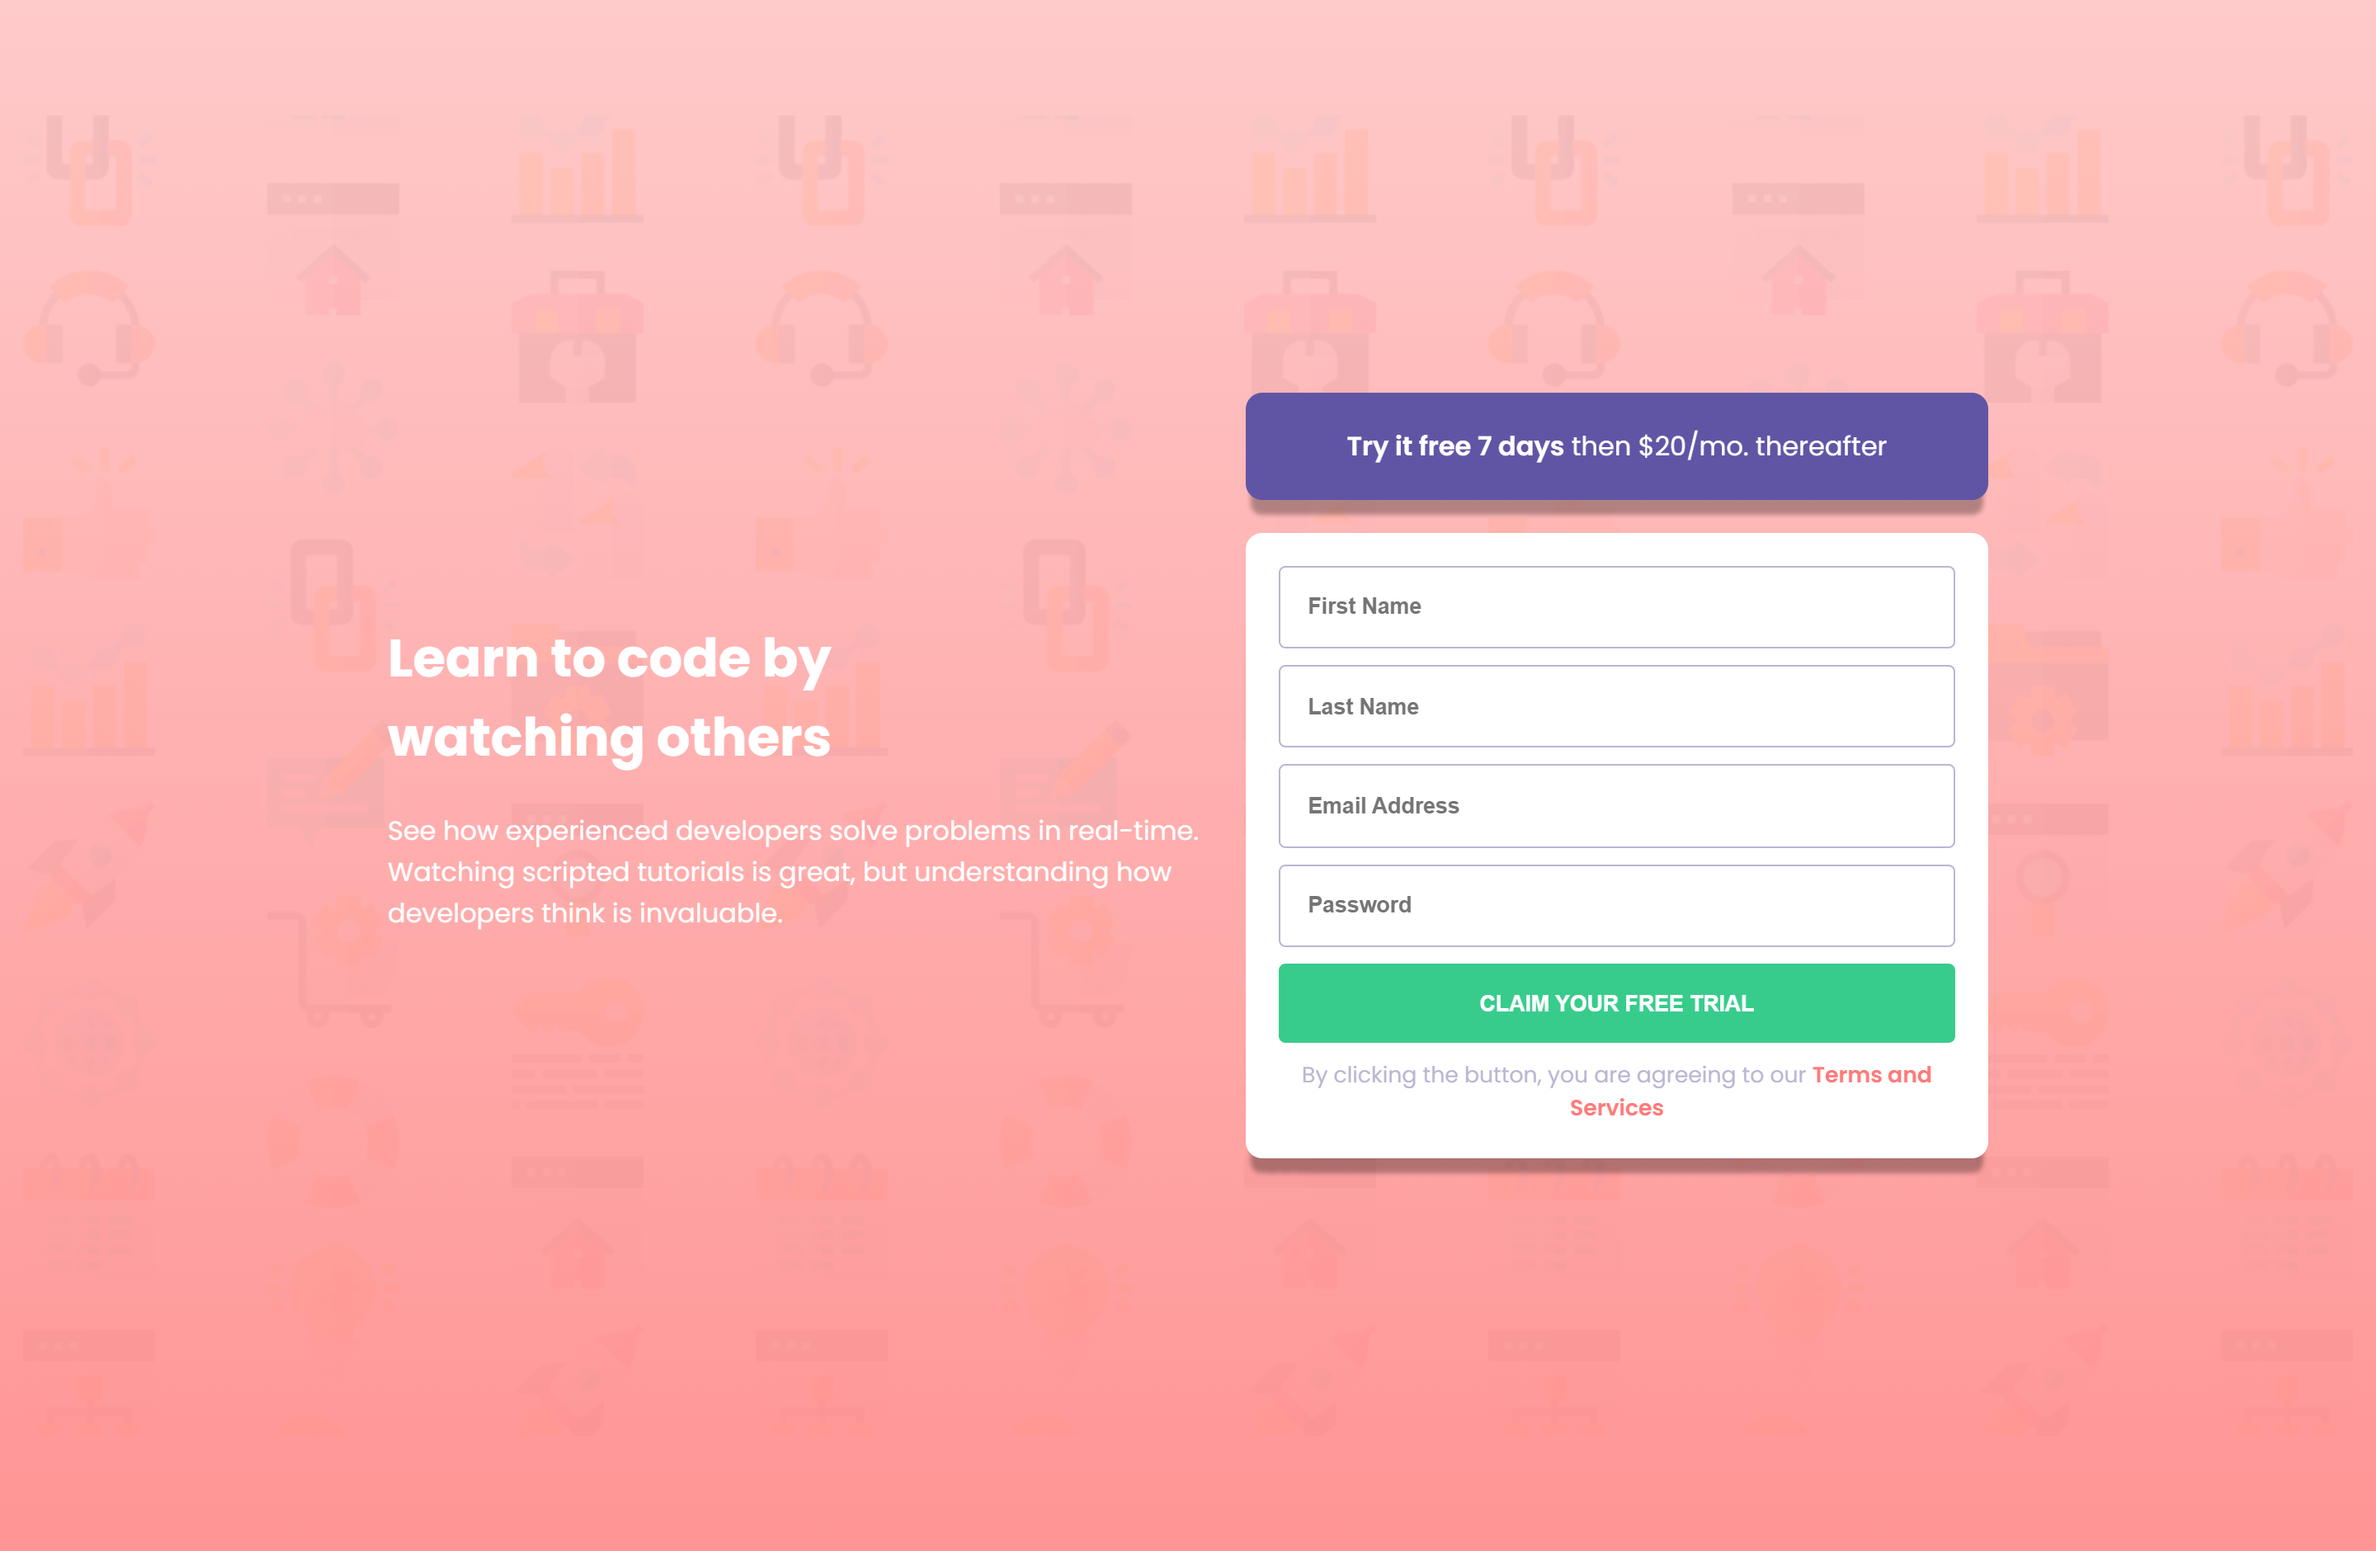
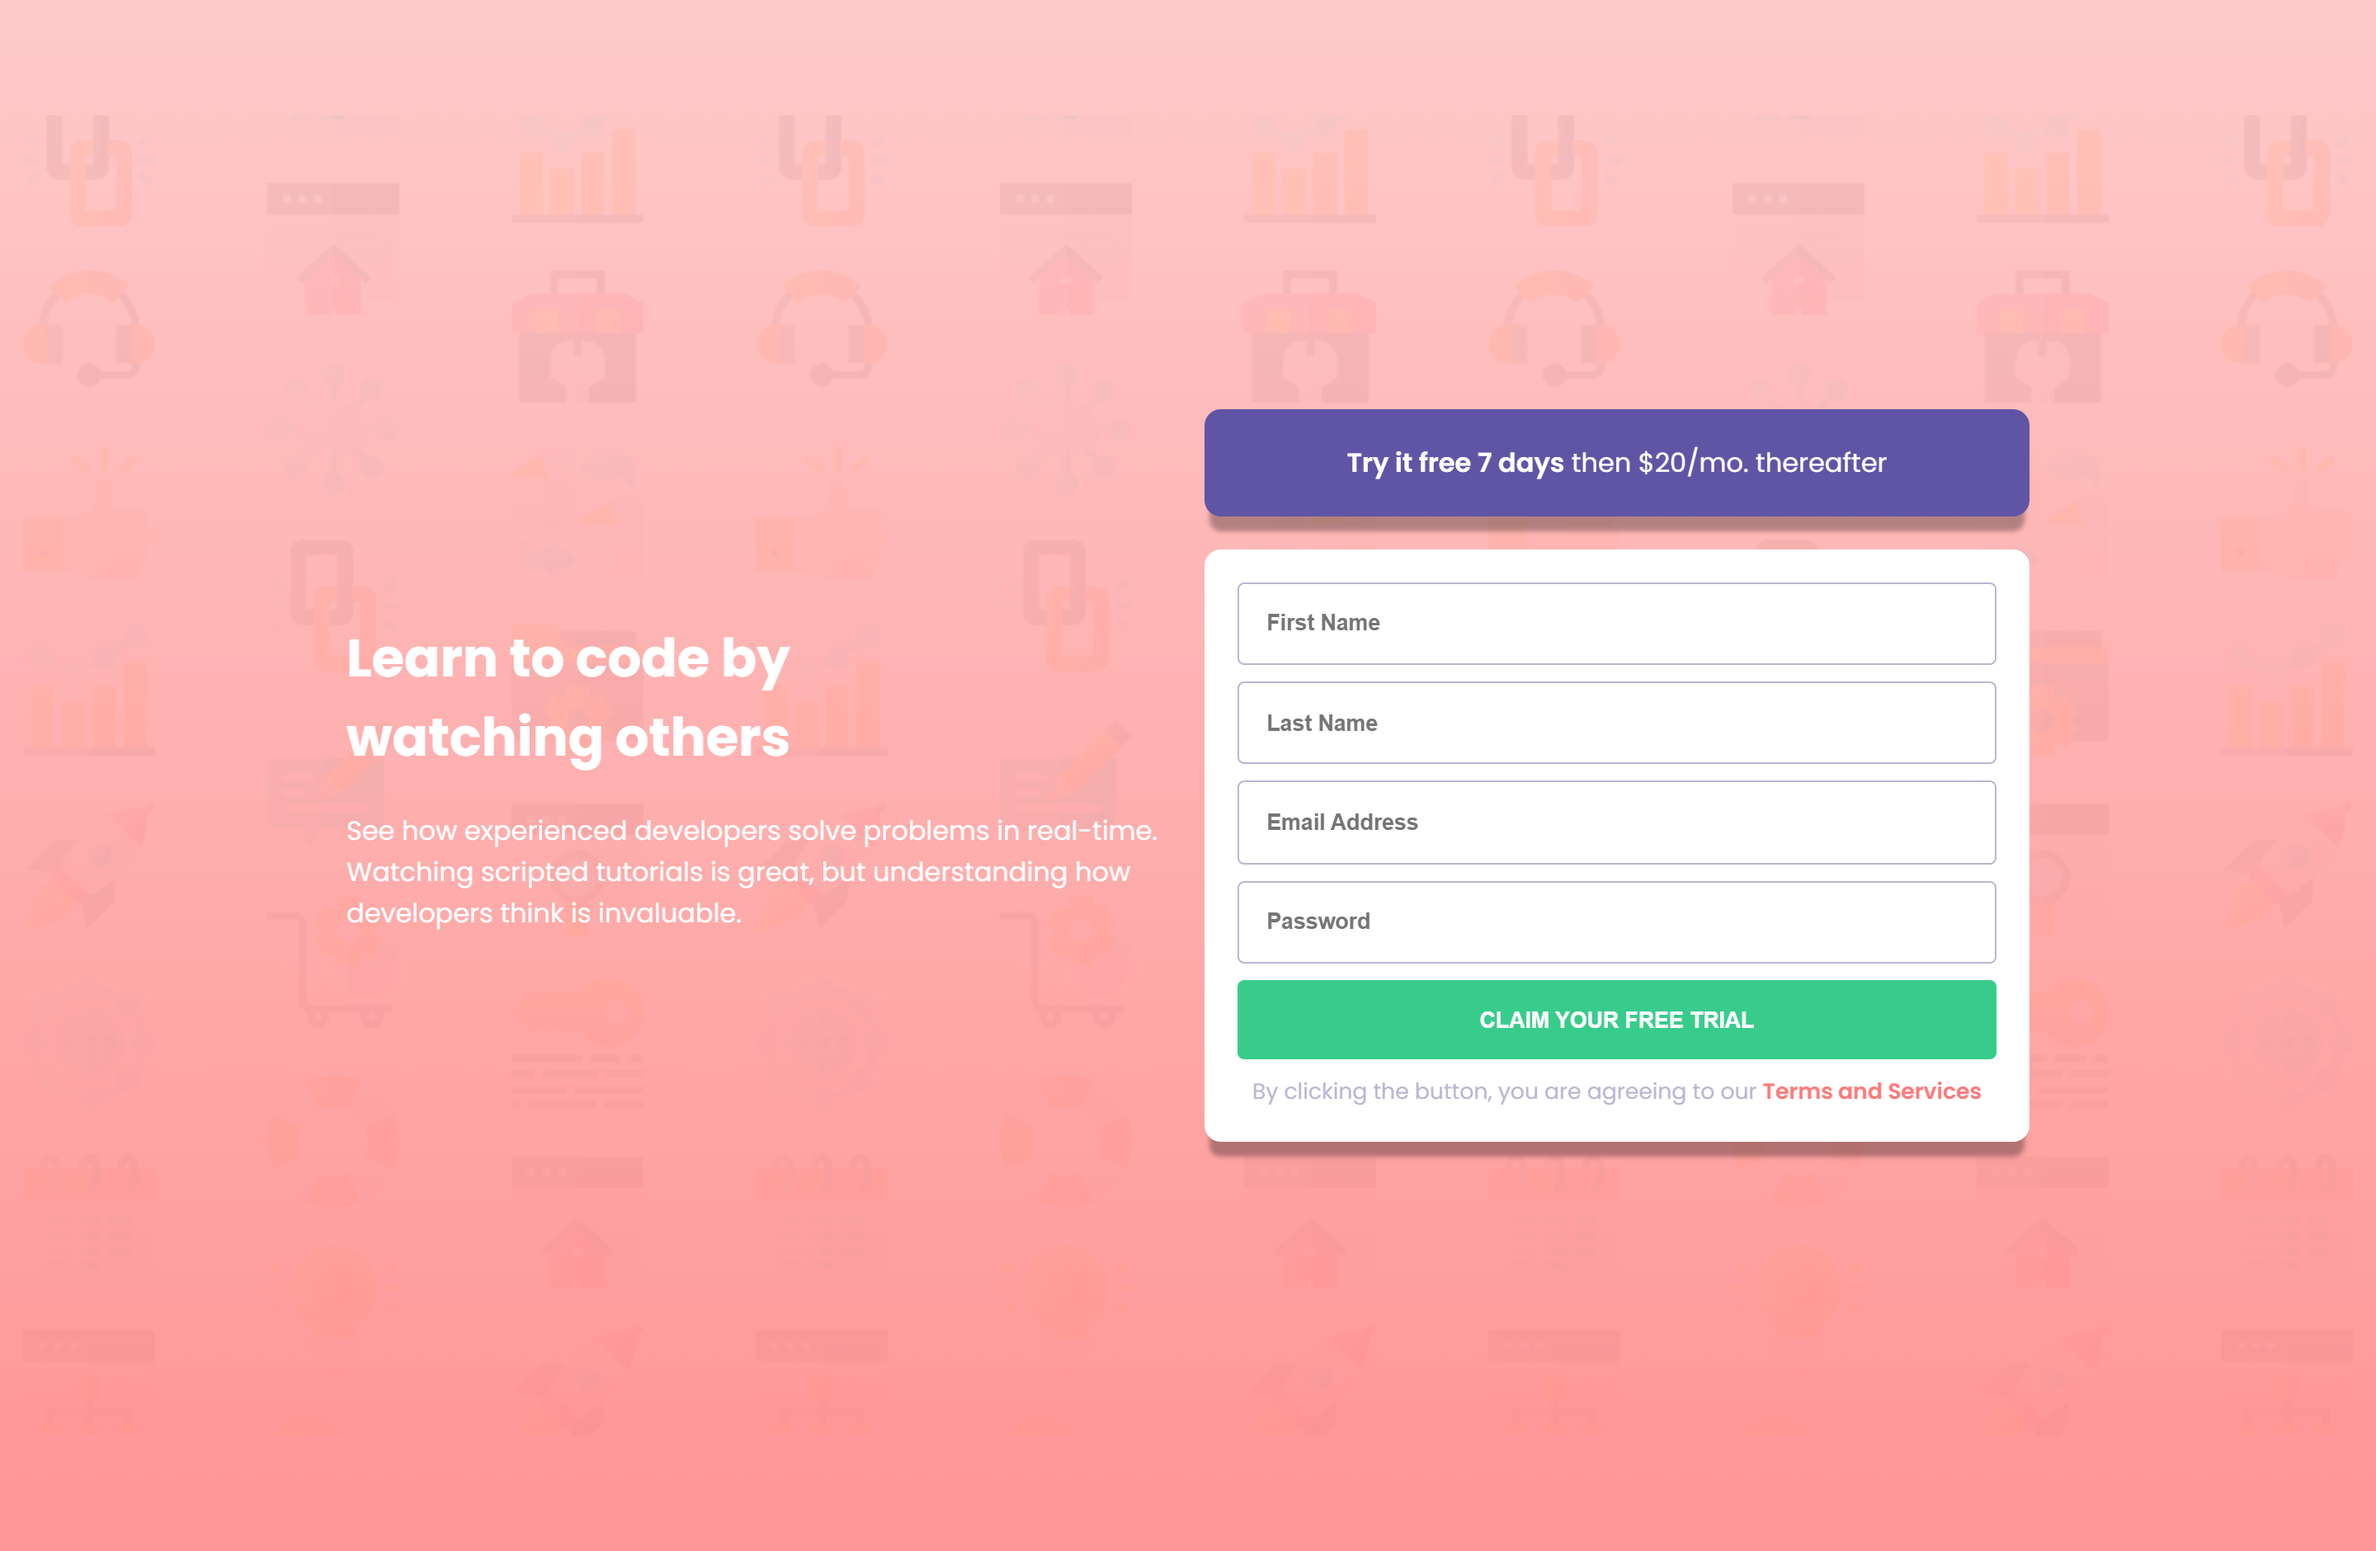
Added JS/Jquery

Changed region(s): [[0.1562, 0.2468, 0.875, 0.7713], [0.125, 0.4011, 0.3438, 0.4936]]

diff --git a/css/style.css b/css/style.css
@@ -1,1 +1,1 @@
-:root{--red: hsl(0, 100%, 74%);--red-faded1: hsla(0, 100%, 74%,.4);--red-faded2: hsla(0, 100%, 74%,.8);--green: hsl(154, 59%, 51%);--blue: hsl(248, 32%, 49%);--white: hsl(0, 0%, 100%);--dark-blue: hsl(249, 10%, 26%);--grayish-blue: hsl(246, 25%, 77%);--attribution-blue: hsl(228, 45%, 44%)}html{font-size:100%;overflow-x:hidden}*,*::before,*::after{box-sizing:border-box;padding:0;margin:0}.shadow,.container #subscription form,.container #subscription #trial-info{box-shadow:0px 12px 3px -3px rgba(0,0,0,.3)}body{font-family:"Poppins",sans-serif;font-size:1rem;font-weight:400;background:linear-gradient(var(--red-faded1), var(--red-faded2)),url("../images/bg-intro-mobile.png") no-repeat center fixed;background-size:cover;height:100%}main{width:100%;height:100%;display:grid;place-items:center}.container{display:flex;flex-wrap:wrap;gap:1.25em;justify-content:center;align-items:center;text-align:center;padding:1.25em}.container #info{display:grid;color:var(--white);padding:2.5em 0.625em}.container #info h1{font-weight:700;margin-bottom:0.625em}.container #subscription{display:grid;gap:1.25em;flex:1 0 28.125em;flex:0 1 28.125em}.container #subscription #trial-info{background:var(--blue);padding:1.25em 3.125em;border-radius:0.625em;color:var(--white)}.container #subscription #trial-info span{font-weight:600}.container #subscription form{display:grid;gap:0.625em;background:var(--white);border-radius:0.625em;padding:1.25em}.container #subscription form .inputs input{width:100%;padding:1.25em;border-radius:0.3125em;border:1px solid var(--grayish-blue);position:relative}.container #subscription form .inputs input::-moz-placeholder{font-weight:700}.container #subscription form .inputs input::placeholder{font-weight:700}.container #subscription form .inputs small{text-align:end;font-style:italic;color:var(--red);padding:0.3125em;font-size:0.625rem;display:none}.container #subscription form .inputs.error label{position:relative}.container #subscription form .inputs.error label::after{content:"";position:absolute;top:0;bottom:0;right:10px;margin:auto 0;width:1.5625em;height:1.5625em;background:url("../images/icon-error.svg") center/contain no-repeat}.container #subscription form .inputs.error input{border:1px solid var(--red);color:var(--red)}.container #subscription form .inputs.error input::-moz-placeholder{color:var(--red)}.container #subscription form .inputs.error input::placeholder{color:var(--red)}.container #subscription form .inputs.error small{display:block}.container #subscription form #trial-btn{padding:1.25em;background:var(--green);color:var(--white);border:none;border-radius:0.3125em;text-transform:uppercase;font-weight:600}.container #subscription form #trial-btn:hover{opacity:.7;cursor:pointer}small{display:block}small#terms{color:var(--grayish-blue)}small#terms span{color:var(--red);font-weight:600}.attribution{font-size:11px;text-align:center;display:none}.attribution a{color:var(--attribution-blue)}@media(min-width: 62em){body{background:linear-gradient(var(--red-faded1), var(--red-faded2)),url("../images/bg-intro-desktop.png") no-repeat center fixed;height:100vh}.container #info{flex:1 1 31.25em;flex:0 1 31.25em;text-align:start;padding:2.5em 0em}.container #info h1{padding-right:2.5em}.container #subscription{flex:1 0 28.125em;flex:0 1 28.125em}}/*# sourceMappingURL=style.css.map */
+:root{--red: hsl(0, 100%, 74%);--red-faded1: hsla(0, 100%, 74%,.4);--red-faded2: hsla(0, 100%, 74%,.9);--green: hsl(154, 59%, 51%);--blue: hsl(248, 32%, 49%);--white: hsl(0, 0%, 100%);--dark-blue: hsl(249, 10%, 26%);--grayish-blue: hsl(246, 25%, 77%);--attribution-blue: hsl(228, 45%, 44%)}html{font-size:100%;overflow-x:hidden}*,*::before,*::after{box-sizing:border-box;padding:0;margin:0}.shadow,.container #subscription form,.container #subscription #trial-info{box-shadow:0px 12px 3px -3px rgba(0,0,0,.3)}body{font-family:"Poppins",sans-serif;font-size:1rem;font-weight:400;background:linear-gradient(var(--red-faded1), var(--red-faded2)),url("../images/bg-intro-mobile.png") no-repeat center fixed;background-size:cover;height:100%}main{width:100%;height:100%;display:grid;place-items:center}.container{display:flex;flex-wrap:wrap;gap:1.25em;justify-content:center;align-items:center;text-align:center;padding:1.25em}.container #info{display:grid;color:var(--white);padding:2.5em 0.625em}.container #info h1{font-weight:700;margin-bottom:0.625em}.container #subscription{display:grid;gap:1.25em;flex:1 0 28.125em;flex:0 1 28.125em}.container #subscription #trial-info{background:var(--blue);padding:1.25em 3.125em;border-radius:0.625em;color:var(--white)}.container #subscription #trial-info span{font-weight:600}.container #subscription form{display:grid;gap:0.625em;background:var(--white);border-radius:0.625em;padding:1.25em}.container #subscription form .inputs input{width:100%;padding:1.25em;border-radius:0.3125em;border:1px solid var(--grayish-blue);position:relative}.container #subscription form .inputs input::-moz-placeholder{font-weight:700}.container #subscription form .inputs input::placeholder{font-weight:700}.container #subscription form .inputs small{text-align:end;font-style:italic;color:var(--red);padding:0.3125em;font-size:0.625rem;display:none}.container #subscription form .inputs.error label{position:relative}.container #subscription form .inputs.error label::after{content:"";position:absolute;top:0;bottom:0;right:10px;margin:auto 0;width:1.5625em;height:1.5625em;background:url("../images/icon-error.svg") center/contain no-repeat}.container #subscription form .inputs.error input{border:1px solid var(--red);color:var(--red)}.container #subscription form .inputs.error input::-moz-placeholder{color:var(--red)}.container #subscription form .inputs.error input::placeholder{color:var(--red)}.container #subscription form .inputs.error small{display:block}.container #subscription form #trial-btn{padding:1.25em;background:var(--green);color:var(--white);border:none;border-radius:0.3125em;text-transform:uppercase;font-weight:600}.container #subscription form #trial-btn:hover{opacity:.7;cursor:pointer}small{display:block}small#terms{color:var(--grayish-blue)}small#terms span{color:var(--red);font-weight:600}.attribution{font-size:11px;text-align:center;display:none}.attribution a{color:var(--attribution-blue)}@media(min-width: 62em){body{background:linear-gradient(var(--red-faded1), var(--red-faded2)),url("../images/bg-intro-desktop.png") no-repeat center fixed;height:100vh}.container #info{flex:1 1 31.25em;flex:0 1 31.25em;text-align:start;padding:2.5em 0em}.container #info h1{padding-right:2.5em}.container #subscription{flex:1 0 31.25em;flex:0 1 31.25em}}/*# sourceMappingURL=style.css.map */

diff --git a/js/javascript.js b/js/javascript.js
@@ -1,0 +1,20 @@
+function isEmail(email){ //Check for valid email addresses
+	let regex = /^([a-zA-Z0-9_.+-])+\@(([a-zA-Z0-9-])+\.)+([a-zA-Z0-9]{2,4})+$/;
+	return regex.test(email);
+}
+
+$("#trial-btn").click(function(){
+    $(".inputs input").each(function(){ // loop through all input fields
+        if($(this).val()==""){ // check if each input field is empty
+            $(this).parent().parent().addClass("error"); // if empty, add the ERROR class which will add the variuos error states/alerts
+            if($(this).prop("id")=="email"){ //if the input field is the email field, set the appropriate alert
+                $(this).parent().parent().children('small').html("Email cannot be empty");
+            }
+        }else{$(this).parent().parent().removeClass("error");}
+    });
+
+    if($("#email").val()!="" && isEmail($("#email").val())==false){ // Check for valid inputted email address
+        $("#email").parent().parent().children('small').html("Looks like this is not an email");
+        $("#email").parent().parent().addClass("error");
+    }else if($("#email").val()!="" && isEmail($("#email").val())){$("#email").parent().parent().removeClass("error");}
+});

diff --git a/scss/includes/_colors.scss b/scss/includes/_colors.scss
@@ -2,7 +2,7 @@
     //Primary
     --red: hsl(0, 100%, 74%);
     --red-faded1: hsla(0, 100%, 74%,.4);
-    --red-faded2: hsla(0, 100%, 74%,.8);
+    --red-faded2: hsla(0, 100%, 74%,.9);
     --green: hsl(154, 59%, 51%);
     //Accent
     --blue: hsl(248, 32%, 49%);

diff --git a/scss/style.scss b/scss/style.scss
@@ -161,8 +161,8 @@ small{
         }
 
         #subscription{
-            flex: 1 0 f.calcEm(450);
-            flex: 0 1 f.calcEm(450);
+            flex: 1 0 f.calcEm(500);
+            flex: 0 1 f.calcEm(500);
         }
     }
 }

diff --git a/README.md b/README.md
@@ -28,20 +28,21 @@ Users should be able to:
 
 ![desktop view - 1440px](./images/screenshots/desktop.png)
 ![mobile view - 375px](./images/screenshots/mobile.png)
+![Active and error states](./images/screenshots/states.png)
 
 ### Links
 
-- Solution URL: https://www.frontendmentor.io/solutions/responsive-3column-card-component-xoLTbxXjWV
+- Solution URL: https://www.frontendmentor.io/solutions/responsive-intro-signup-form-with-validation-checks-pmHWS-g4n9
 - Live Site URL: https://omar-p-graham.github.io/intro-signup-form/
 
 ### Built with
 
 - Semantic HTML5 markup
-- SCSS/CSS custom properties
+- SASS/SCSS/CSS custom properties
 - Flexbox
 - CSS Grid
 - Mobile-first workflow
-- JS/JQuery
+- [JS/JQuery](https://jquery.com/)
 
 ## Author
 
